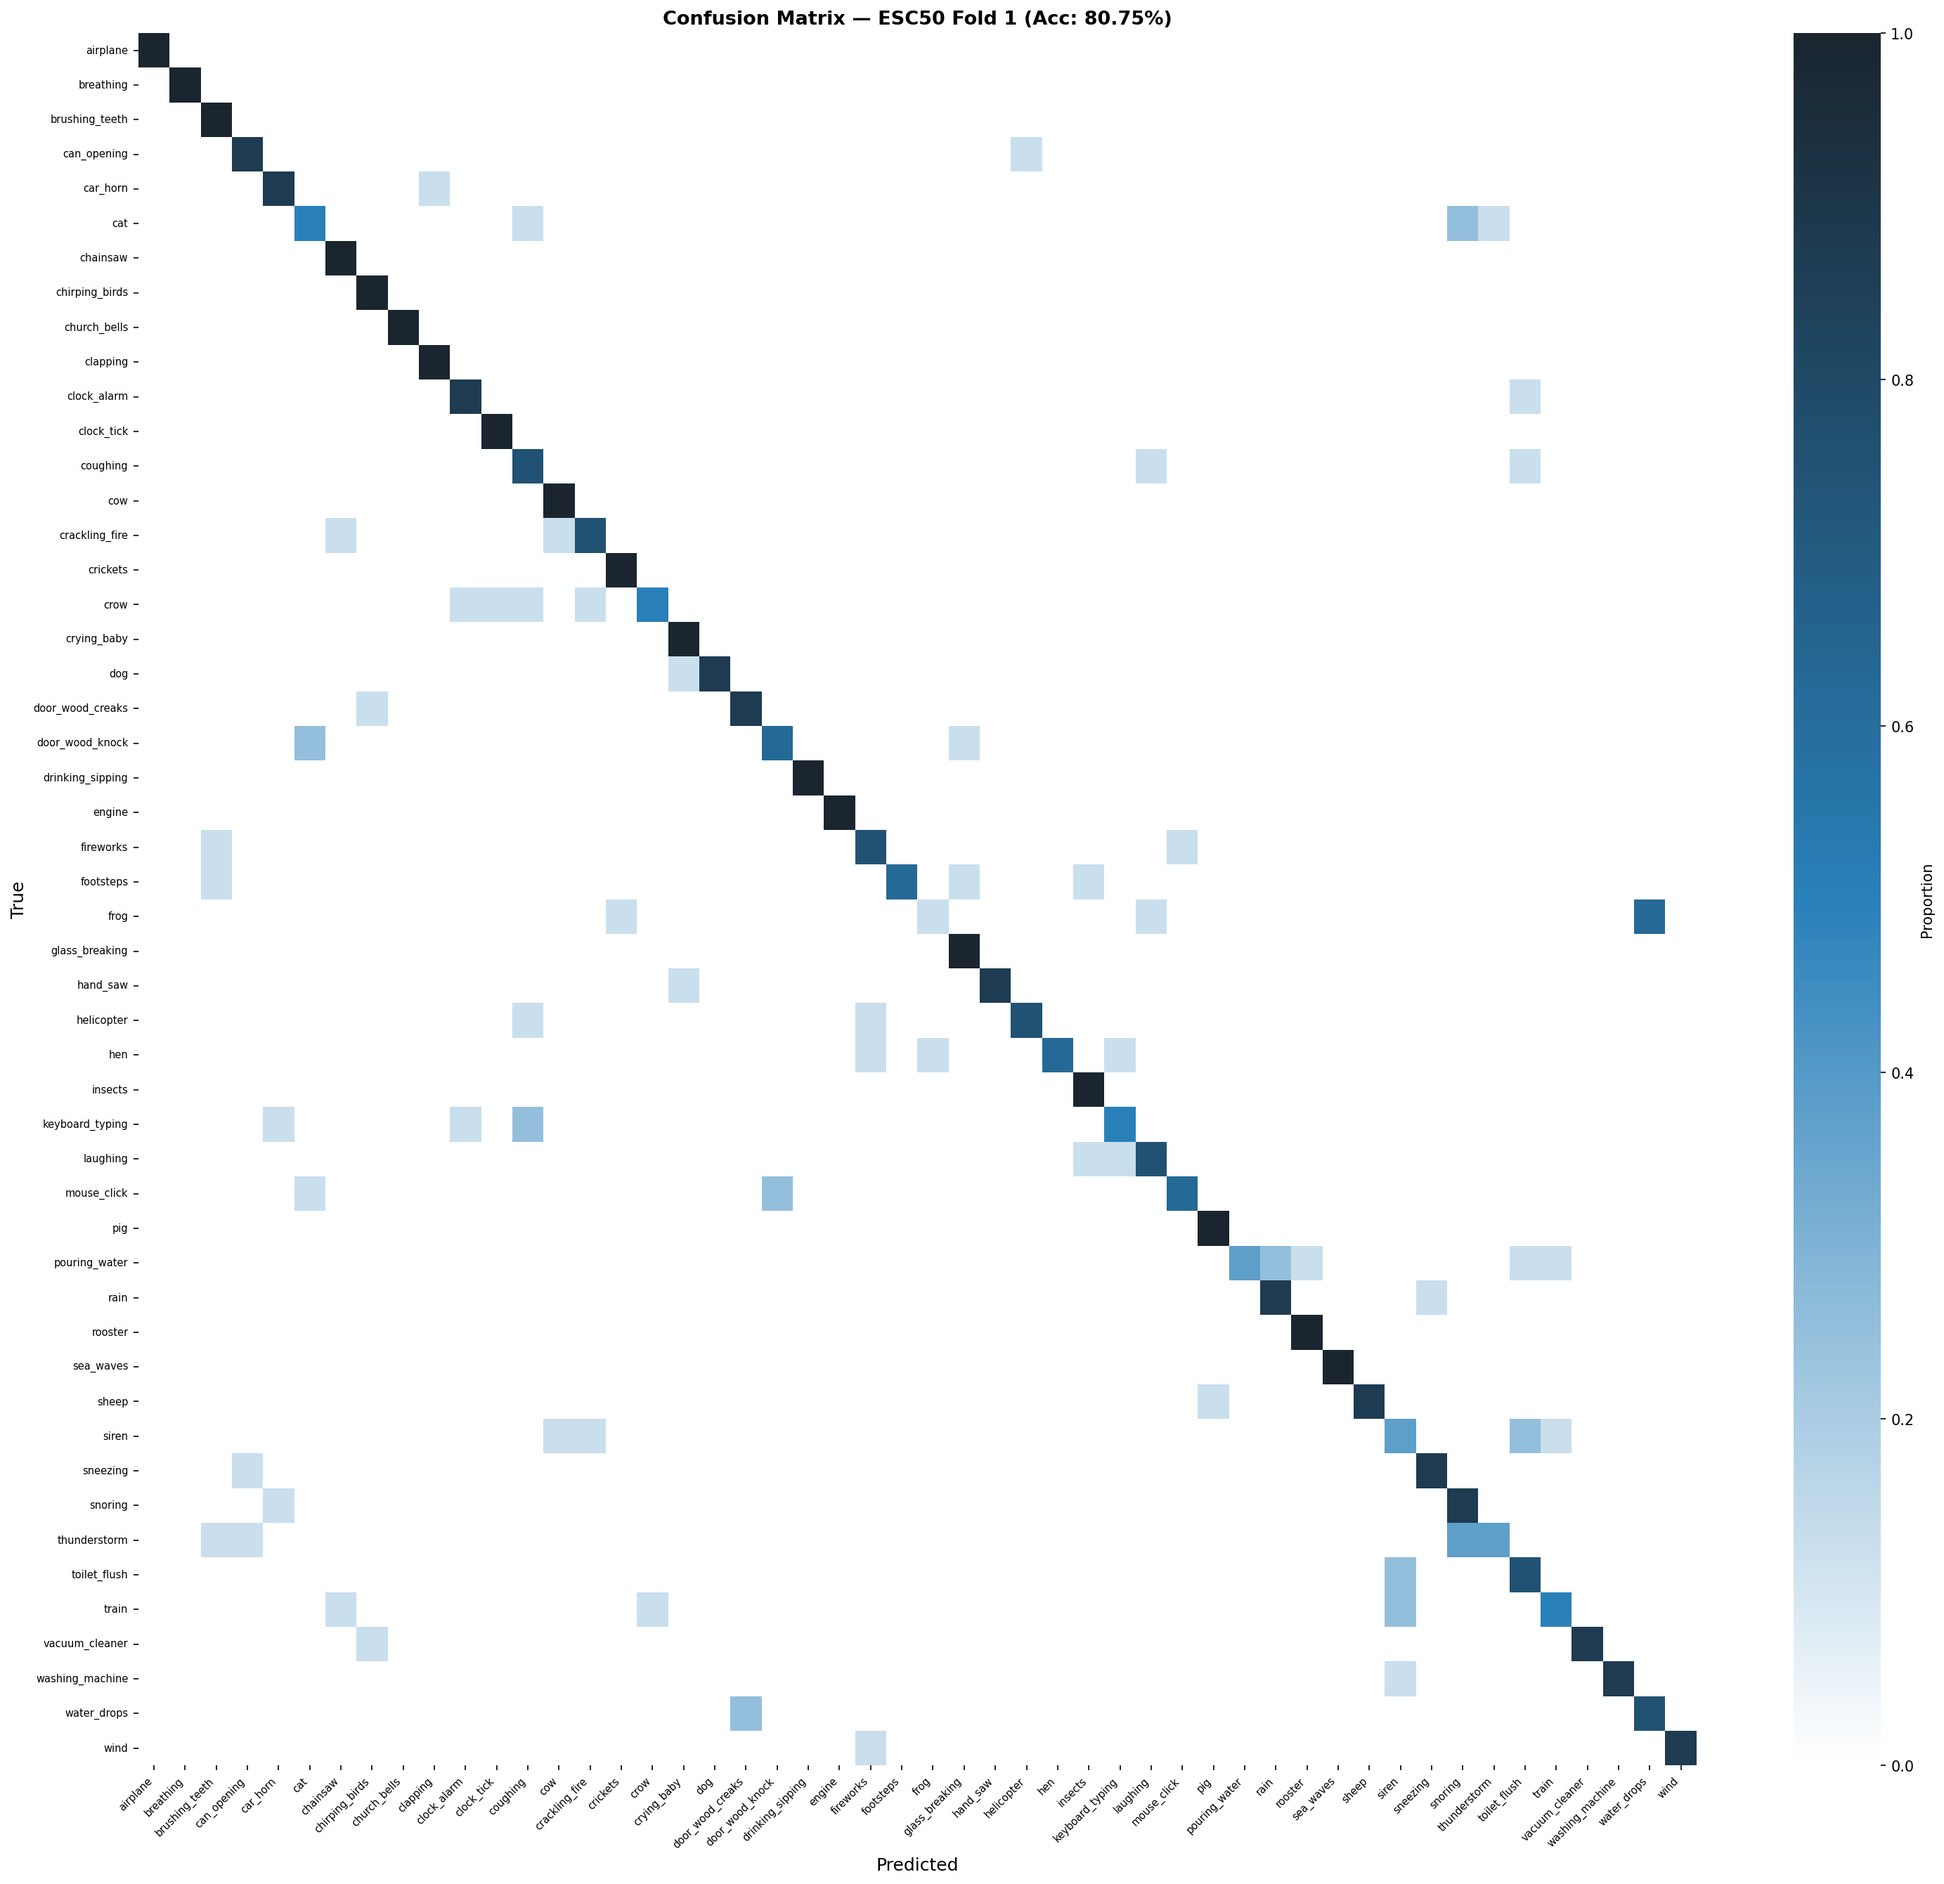
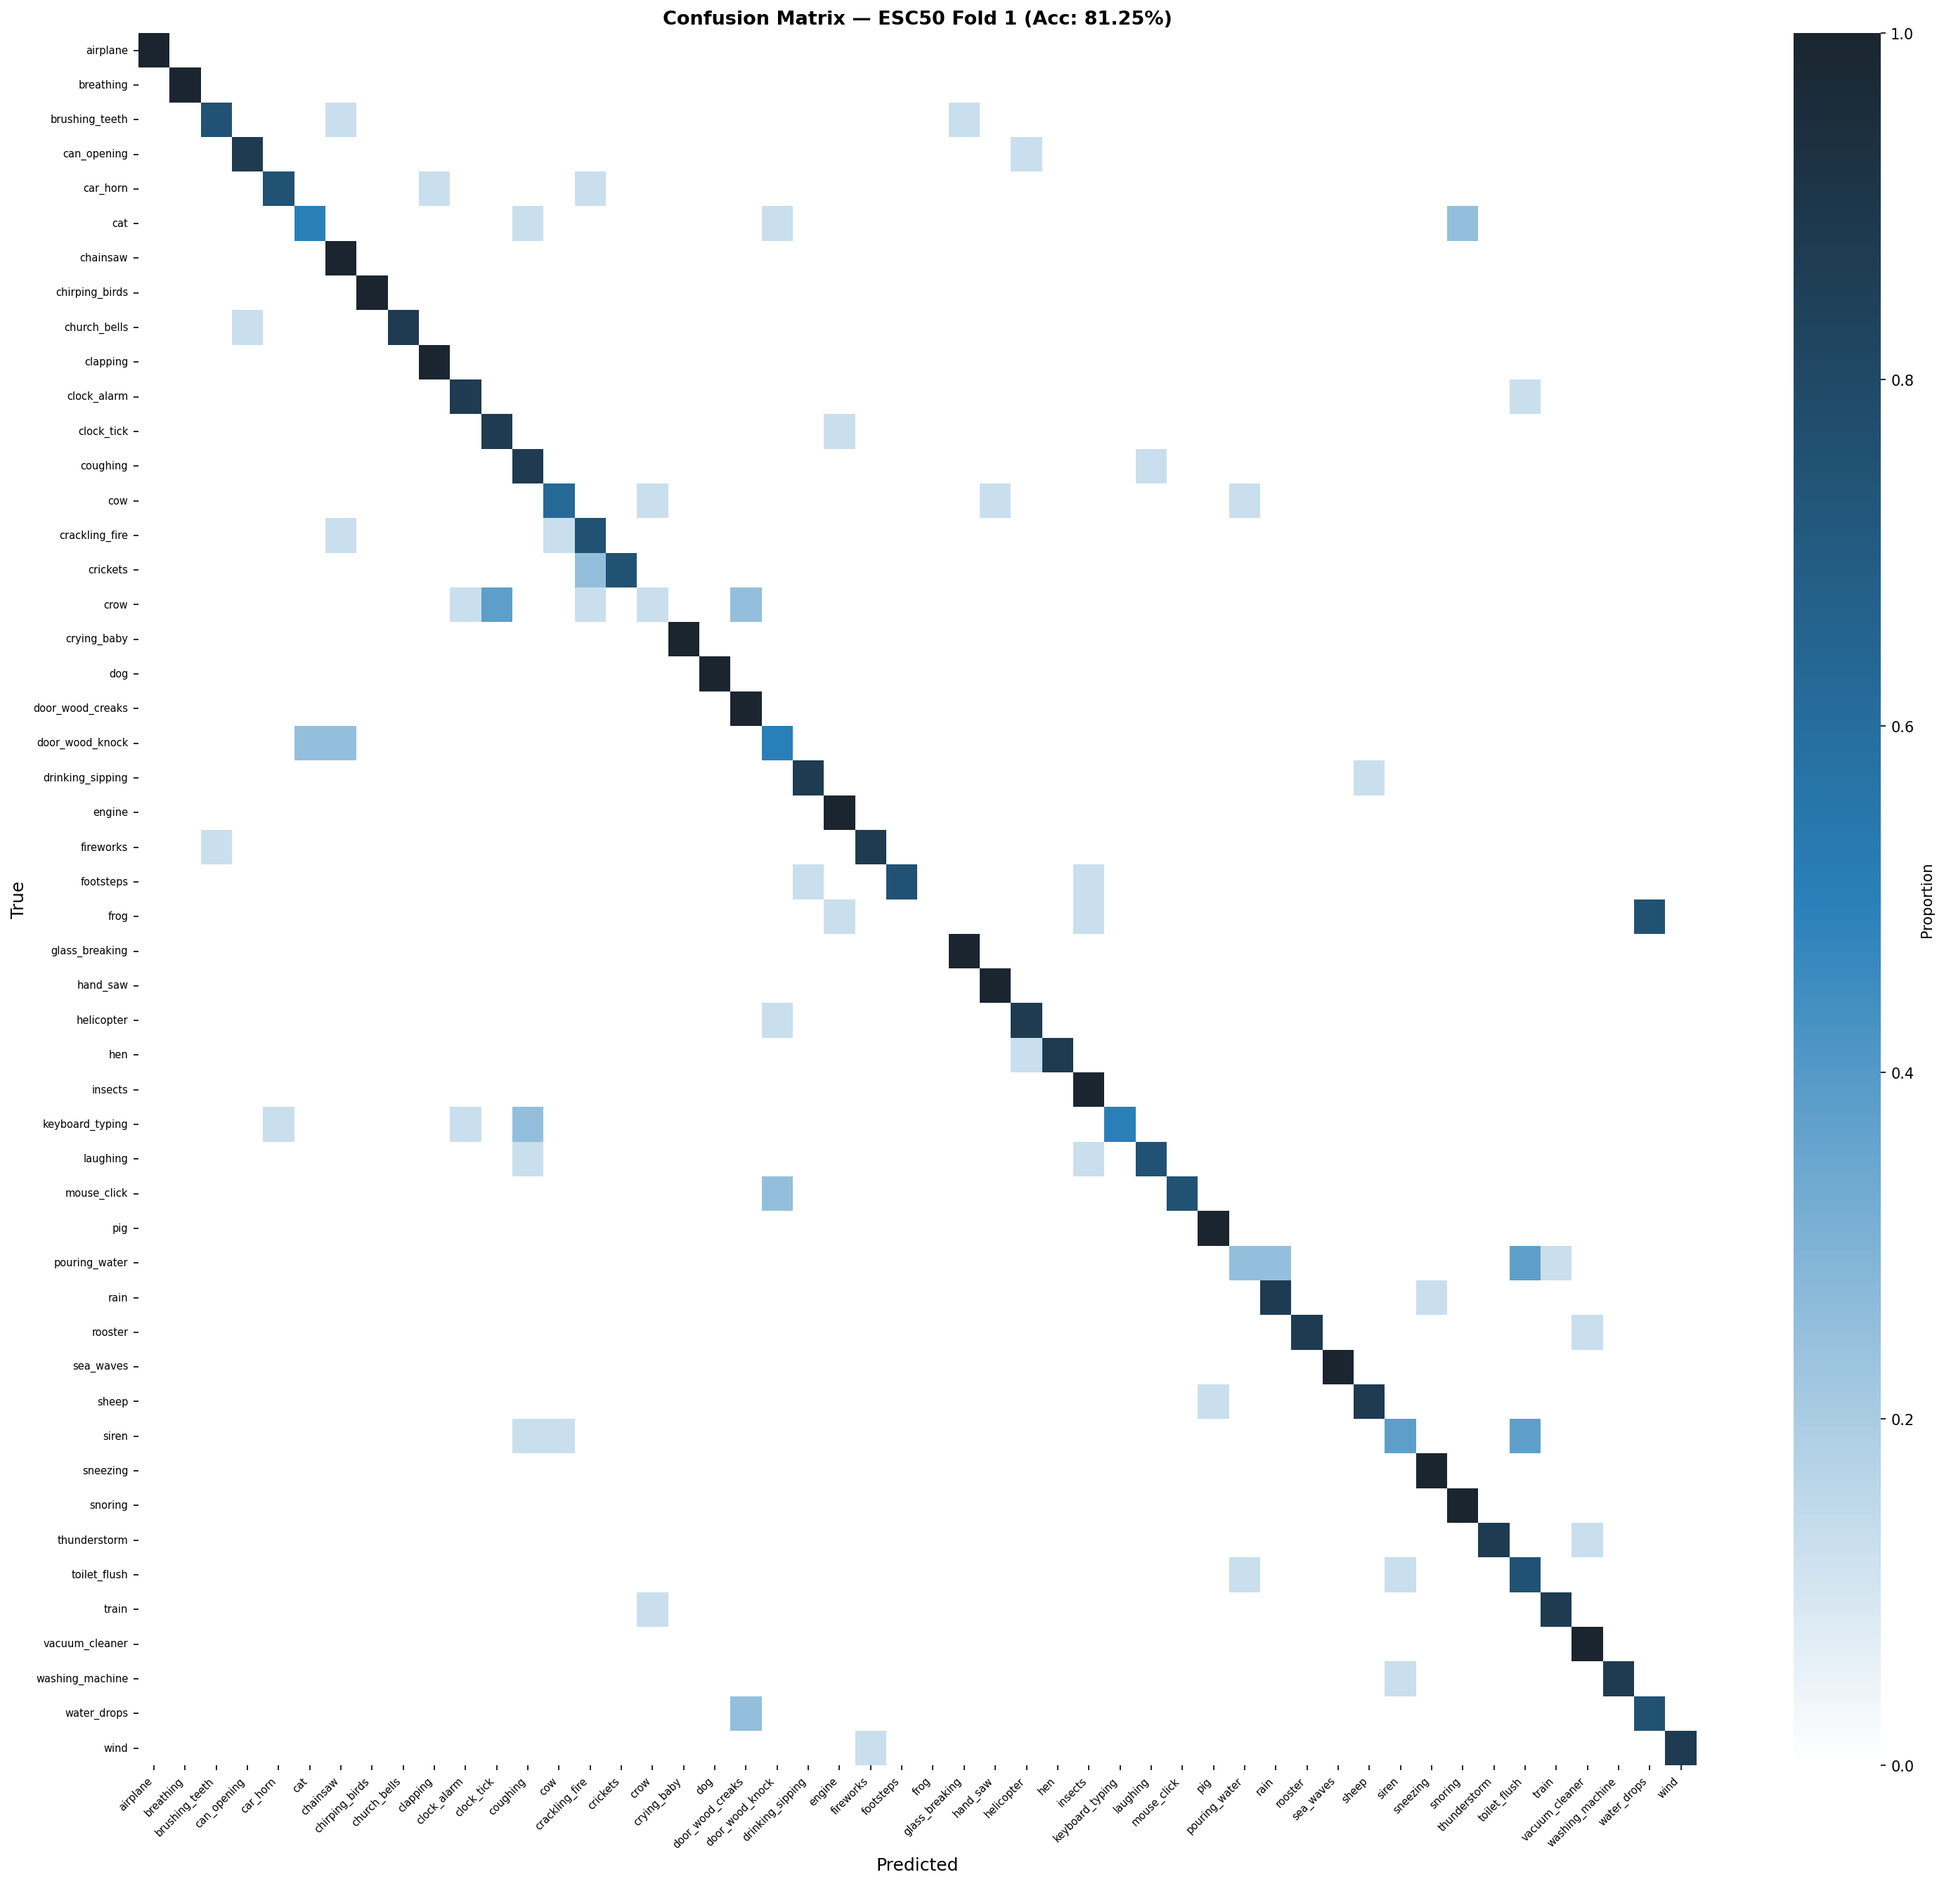
Upgraded to MR-AFCNN v2 with MultiScale Convs, Freq Attention, and SupCon Loss (81.25%)

diff --git a/model.py b/model.py
@@ -1,25 +1,69 @@
 import torch
 import torch.nn as nn
+import torch.nn.functional as F
 
-class DepthwiseSeparableConv(nn.Module):
+class MultiScaleDWConv(nn.Module):
+    """
+    Novelty: Captures audio events at varying time and frequency scales.
+    Uses parallel depthwise convolutions of different kernel shapes.
+    """
     def __init__(self, in_ch, out_ch, stride=1):
         super().__init__()
-        self.depthwise = nn.Conv2d(in_ch, in_ch, kernel_size=3, padding=1, stride=stride, groups=in_ch, bias=False)
-        self.pointwise = nn.Conv2d(in_ch, out_ch, kernel_size=1, bias=False)
+        # Parallel 1: Standard 3x3 (local time-frequency patterns)
+        self.dw_3x3 = nn.Conv2d(in_ch, in_ch, kernel_size=3, padding=1, stride=stride, groups=in_ch, bias=False)
+        # Parallel 2: 1x5 (Long time duration, narrow frequency)
+        self.dw_1x5 = nn.Conv2d(in_ch, in_ch, kernel_size=(1, 5), padding=(0, 2), stride=stride, groups=in_ch, bias=False)
+        # Parallel 3: 5x1 (Short time duration, wide frequency)
+        self.dw_5x1 = nn.Conv2d(in_ch, in_ch, kernel_size=(5, 1), padding=(2, 0), stride=stride, groups=in_ch, bias=False)
+        
+        self.pointwise = nn.Conv2d(in_ch * 3, out_ch, kernel_size=1, bias=False)
         self.bn = nn.BatchNorm2d(out_ch)
-        self.relu = nn.SiLU(inplace=True)
+        self.silu = nn.SiLU(inplace=True)
 
     def forward(self, x):
-        return self.relu(self.bn(self.pointwise(self.depthwise(x))))
+        x1 = self.dw_3x3(x)
+        x2 = self.dw_1x5(x)
+        x3 = self.dw_5x1(x)
+        
+        merged = torch.cat([x1, x2, x3], dim=1)
+        out = self.pointwise(merged)
+        return self.silu(self.bn(out))
+
+class FreqSpatialAttention(nn.Module):
+    """
+    Novelty: Audio spectrograms have frequency on the H axis and time on the W axis.
+    We pool over Time (W) to squeeze temporal dynamics, but retain Frequency (H) 
+    to apply specific attention weights to distinct frequency bins.
+    """
+    def __init__(self, in_ch, reduction=4):
+        super().__init__()
+        mid_ch = max(1, in_ch // reduction)
+        self.mlp = nn.Sequential(
+            nn.Conv2d(in_ch, mid_ch, kernel_size=1, bias=False),
+            nn.SiLU(inplace=True),
+            nn.Conv2d(mid_ch, in_ch, kernel_size=1, bias=False),
+            nn.Sigmoid()
+        )
+
+    def forward(self, x):
+        # x is (B, C, F, T)
+        # Pool over Time (T) -> (B, C, F, 1)
+        time_pooled = x.mean(dim=3, keepdim=True)
+        # Generates attention weights of shape (B, C, F, 1)
+        attn = self.mlp(time_pooled)
+        # Broadcasts across Time axis
+        return x * attn
+
 
 class MRAFCNNBlock(nn.Module):
     def __init__(self, in_ch, out_ch, stride=1):
         super().__init__()
         self.conv1 = nn.Conv2d(in_ch, out_ch, kernel_size=1, bias=False)
         self.bn1 = nn.BatchNorm2d(out_ch)
-        self.relu = nn.SiLU(inplace=True)
-        # Expected by GradCAM in evaluate.py: target_layer = model.stage3[-1].conv2.pointwise
-        self.conv2 = DepthwiseSeparableConv(out_ch, out_ch, stride=stride)
+        self.silu = nn.SiLU(inplace=True)
+        
+        # Target layer for GradCAM expects a 'pointwise' attribute inside conv2
+        self.conv2 = MultiScaleDWConv(out_ch, out_ch, stride=stride)
         
         self.downsample = nn.Sequential()
         if stride != 1 or in_ch != out_ch:
@@ -28,22 +72,16 @@ class MRAFCNNBlock(nn.Module):
                 nn.BatchNorm2d(out_ch)
             )
             
-        # Channel Attention
-        self.ca = nn.Sequential(
-            nn.AdaptiveAvgPool2d(1),
-            nn.Conv2d(out_ch, out_ch // 4 if out_ch // 4 > 0 else 1, 1),
-            nn.SiLU(inplace=True),
-            nn.Conv2d(out_ch // 4 if out_ch // 4 > 0 else 1, out_ch, 1),
-            nn.Sigmoid()
-        )
+        # Frequency-Spatial Attention
+        self.attn = FreqSpatialAttention(out_ch)
 
     def forward(self, x):
         residual = self.downsample(x)
-        out = self.relu(self.bn1(self.conv1(x)))
+        out = self.silu(self.bn1(self.conv1(x)))
         out = self.conv2(out)
-        out = out * self.ca(out)
+        out = self.attn(out)
         out += residual
-        return self.relu(out)
+        return self.silu(out)
 
 class MRAFCNN(nn.Module):
     def __init__(self, num_classes=50, base_channels=64):
@@ -61,8 +99,18 @@ class MRAFCNN(nn.Module):
         self.pool = nn.AdaptiveAvgPool2d((1, 1))
         
         out_ch = base_channels*8
+        
+        # Head 1: Standard Cross Entropy
         self.head_ce = nn.Linear(out_ch, num_classes)
-        self.head_ls = nn.Linear(out_ch, num_classes)
+        
+        # Head 2: Contrastive Projection Head (Outputting 128-d vector)
+        self.head_supcon = nn.Sequential(
+            nn.Linear(out_ch, out_ch),
+            nn.SiLU(inplace=True),
+            nn.Linear(out_ch, 128)
+        )
+        
+        # Head 3: Fused Classification
         self.head_fused = nn.Linear(out_ch + base_channels*4, num_classes)
 
     def _make_stage(self, in_ch, out_ch, num_blocks, stride):
@@ -84,30 +132,80 @@ class MRAFCNN(nn.Module):
         fused_features = torch.cat([p2, p3], dim=1)
         
         logits_ce = self.head_ce(p3)
-        logits_ls = self.head_ls(p3)
+        proj_supcon = self.head_supcon(p3)
+        # L2 normalize projection for contrastive loss
+        proj_supcon = F.normalize(proj_supcon, dim=1) 
+        
         logits_fused = self.head_fused(fused_features)
         
-        return logits_fused, logits_ce, logits_ls
+        return logits_fused, logits_ce, proj_supcon
+
+
+class SupConLoss(nn.Module):
+    """
+    Supervised Contrastive Learning. Pulls embeddings of the same class together.
+    """
+    def __init__(self, temperature=0.1):
+        super().__init__()
+        self.temperature = temperature
+
+    def forward(self, features, labels):
+        device = features.device
+        batch_size = features.shape[0]
+
+        # Cosine similarity matrix
+        sim_matrix = torch.matmul(features, features.T) / self.temperature
+        
+        # Mask self-similarity (diagonal)
+        mask = torch.eye(batch_size, dtype=torch.bool, device=device)
+        labels = labels.contiguous().view(-1, 1)
+        label_mask = torch.eq(labels, labels.T).float()
+        label_mask = label_mask.masked_fill(mask, 0)
+        
+        # For numeric stability
+        logits_max, _ = torch.max(sim_matrix, dim=1, keepdim=True)
+        logits = sim_matrix - logits_max.detach()
+        
+        exp_logits = torch.exp(logits) * (~mask).float()
+        log_prob = logits - torch.log(exp_logits.sum(1, keepdim=True) + 1e-8)
+        
+        num_positives = label_mask.sum(1)
+        pos_mask = (num_positives > 0)
+        
+        if not pos_mask.any():
+            return torch.tensor(0.0, device=device, requires_grad=True)
+            
+        log_prob_pos = (label_mask * log_prob).sum(1) / torch.clamp(num_positives, min=1.0)
+        loss = -log_prob_pos[pos_mask].mean()
+        return loss
+
 
 class MRAFCNNLoss(nn.Module):
     def __init__(self, num_classes=50, lambda_ce=0.4, lambda_ls=0.3, lambda_fused=0.3, smoothing=0.1):
         super().__init__()
         self.lambda_ce = lambda_ce
-        self.lambda_ls = lambda_ls
+        self.lambda_supcon = lambda_ls 
         self.lambda_fused = lambda_fused
         
         self.ce_loss = nn.CrossEntropyLoss()
-        self.ls_loss = nn.CrossEntropyLoss(label_smoothing=smoothing)
+        self.supcon_loss = SupConLoss(temperature=0.1)
         self.fused_loss = nn.CrossEntropyLoss(label_smoothing=smoothing)
 
     def forward(self, outputs, targets):
-        logits_fused, logits_ce, logits_ls = outputs
+        logits_fused, logits_ce, proj_supcon = outputs
         
         loss_ce = self.ce_loss(logits_ce, targets)
-        loss_ls = self.ls_loss(logits_ls, targets)
+        
+        if targets.dim() == 2:  # Soft labels during Mixup
+            hard_targets = targets.argmax(dim=1)
+        else:
+            hard_targets = targets
+            
+        loss_supcon = self.supcon_loss(proj_supcon, hard_targets)
         loss_fused = self.fused_loss(logits_fused, targets)
         
-        return self.lambda_ce * loss_ce + self.lambda_ls * loss_ls + self.lambda_fused * loss_fused
+        return self.lambda_ce * loss_ce + self.lambda_supcon * loss_supcon + self.lambda_fused * loss_fused
+
 
 def build_esc50(n_mels=128, n_frames=128):
     return MRAFCNN(num_classes=50)

diff --git a/train.py b/train.py
@@ -181,15 +181,15 @@ def train_one_epoch(
         optimizer.zero_grad(set_to_none=True)
 
         with autocast(enabled=scaler.is_enabled()):
-            outputs = model(specs)                          # (fused, ce, ls)
-            logits_fused, logits_ce, logits_ls = outputs
+            outputs = model(specs)                          # (fused, ce, proj_supcon)
+            logits_fused, logits_ce, proj_supcon = outputs
 
             if use_mixup and soft_labels is not None:
-                # Use soft CE for all heads when mixup is active
+                # Use soft CE for fused/ce heads, but standard SupCon for the projection head using hard majority labels
                 loss = (
                     TCFG.LAMBDA_CE    * soft_cross_entropy(logits_ce,    soft_labels)
-                  + TCFG.LAMBDA_LS    * soft_cross_entropy(logits_ls,    soft_labels)
                   + TCFG.LAMBDA_FUSED * soft_cross_entropy(logits_fused, soft_labels)
+                  + TCFG.LAMBDA_LS    * loss_fn.supcon_loss(proj_supcon, hard_labels)
                 )
             else:
                 loss = loss_fn(outputs, hard_labels)
@@ -237,7 +237,7 @@ def validate(
         labels = labels.to(device, non_blocking=True)
 
         outputs = model(specs)
-        logits_fused, logits_ce, logits_ls = outputs
+        logits_fused, logits_ce, proj_supcon = outputs
 
         loss  = loss_fn(outputs, labels)
 
